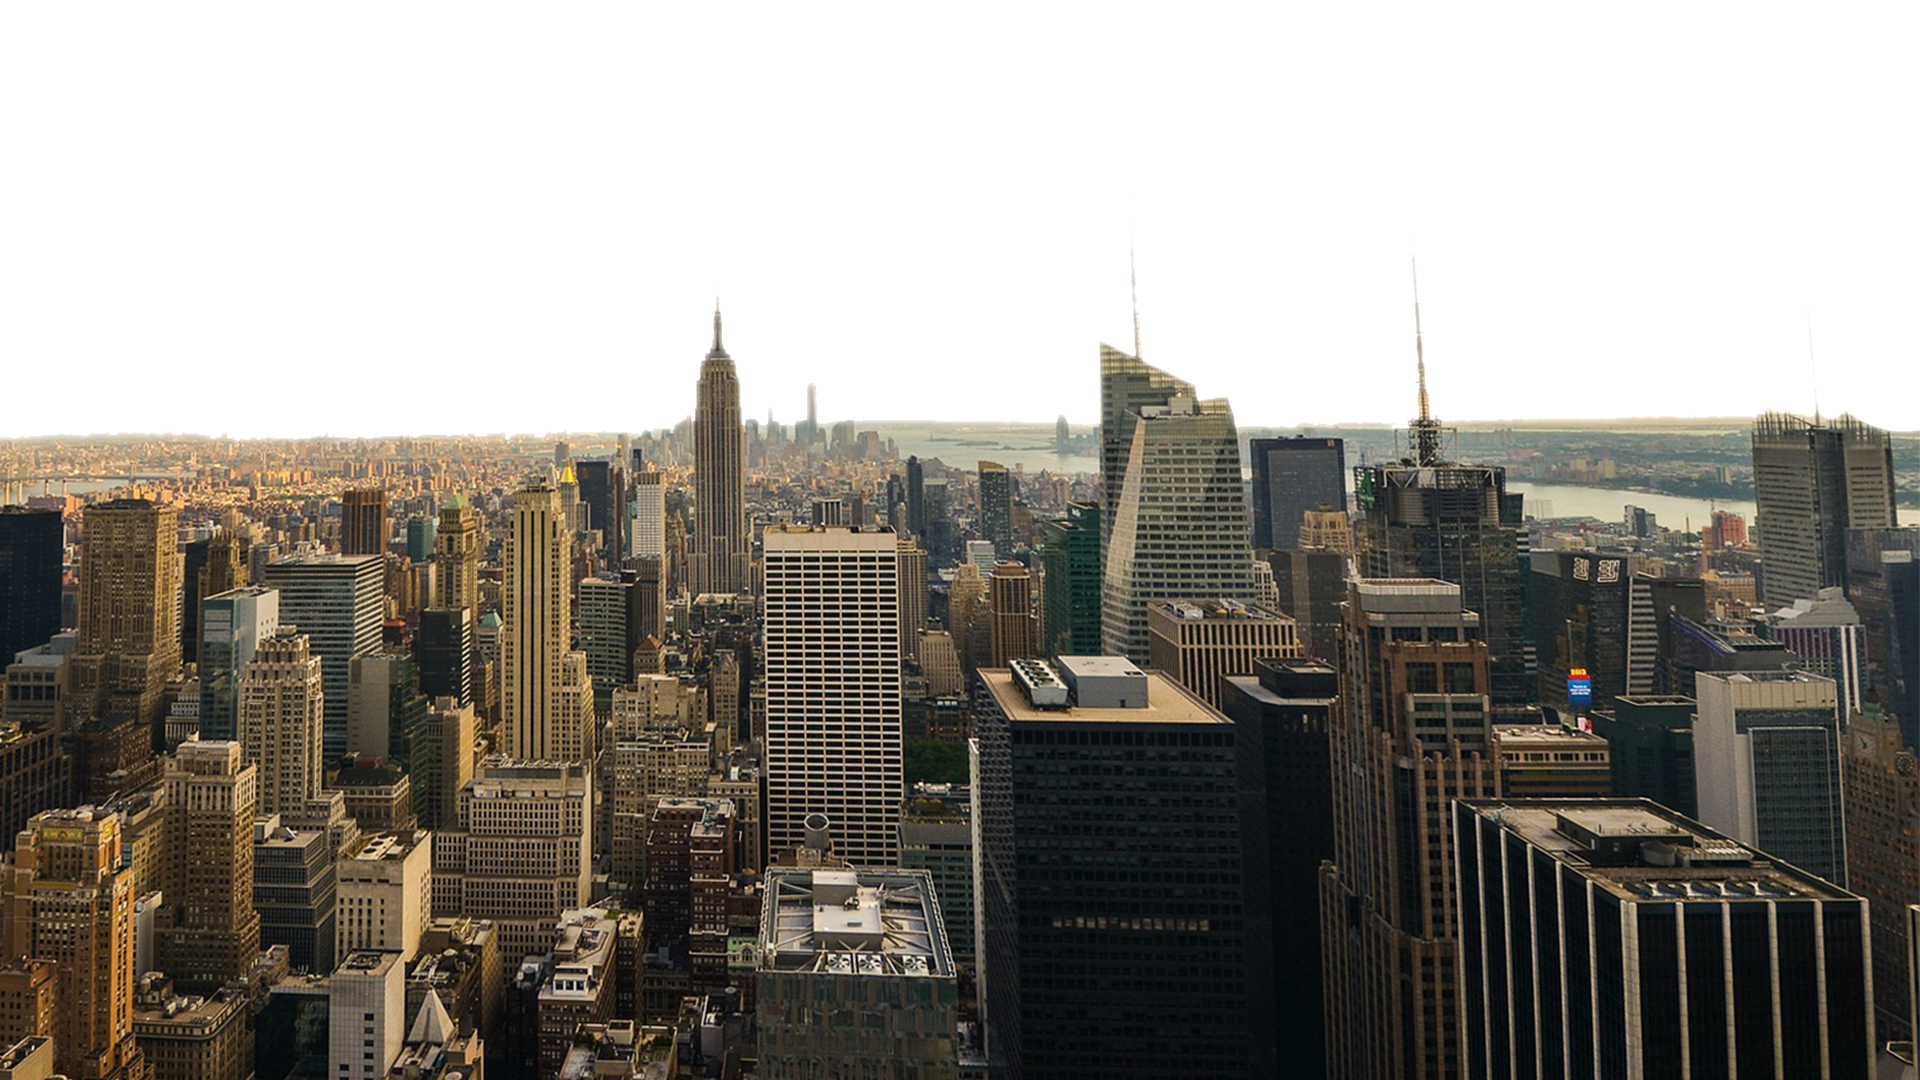
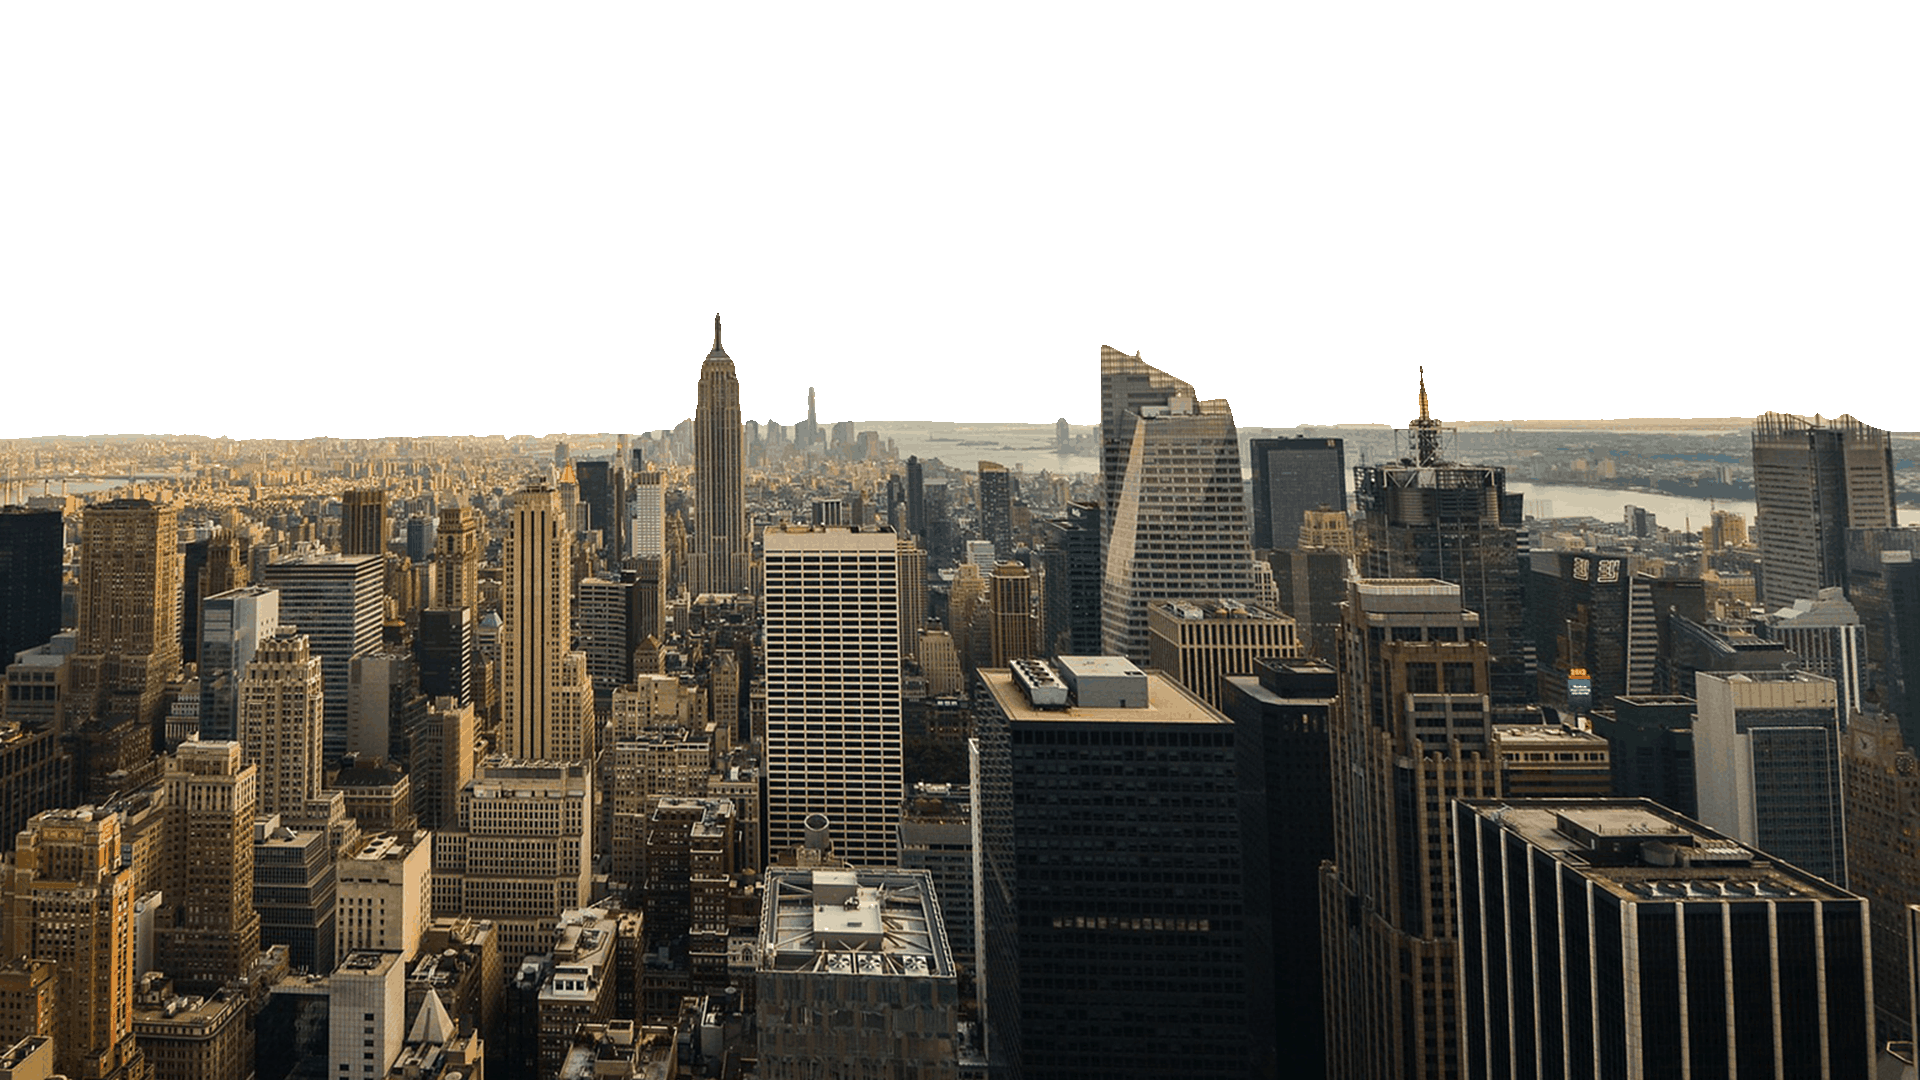
tweak rise and optimize png

diff --git a/trump-rises/css/style.css b/trump-rises/css/style.css
@@ -46,7 +46,7 @@ html {
   width: 100%;
   height: 100%;
   top: 0%;
-  background: url(../img/city.png) no-repeat center center fixed; 
+  background: url(../img/city.png) no-repeat center center fixed;
   -webkit-background-size: cover;
   -moz-background-size: cover;
   -o-background-size: cover;
@@ -70,7 +70,7 @@ html {
 @keyframes rise {
   0% {
     /*top: 50%;*/
-    top:100%;
+    top:80%;
   }
   100% {
     /*top: 15%;*/
@@ -118,7 +118,7 @@ html {
 
 .birdr {
   z-index: 70;
-  
+
   opacity: 1;
   top: 50px;
   width: 10px;
@@ -151,7 +151,7 @@ html {
 
 .birdr1 {
   z-index: 70;
-  
+
   opacity: 1;
   top: 45px;
   width: 10px;
